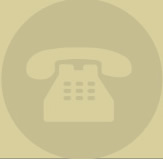
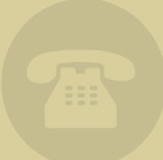
loremipsum

Changed region(s): [[0.0, 0.9688, 1.0, 1.0]]

diff --git a/purawisata/css/style.css b/purawisata/css/style.css
@@ -1621,11 +1621,10 @@ blockquote p,
    border-top:1px dotted #9CAFC4;
    margin:20px auto 0;
    position: relative;
-   color: #3B4E63;
-   font-size: 13px;
-   font-family: Arial, 'Arial Unicode MS', Helvetica, Sans-Serif;
+   color: #4E3623;
    line-height: 175%;
    text-align: center;
+   font-size:12px;
    padding: 0;
 }
 
@@ -1637,7 +1636,7 @@ blockquote p,
 .cni-footer th,
 .cni-footer caption
 {
-   color: #3B4E63;
+   color: #4E3623;
    font-size: 13px;
    font-family: Arial, 'Arial Unicode MS', Helvetica, Sans-Serif;
    line-height: 175%;

diff --git a/purawisata/css/cni.css b/purawisata/css/cni.css
@@ -725,7 +725,7 @@ min-height: 700px;
 	margin-left: -50px;
 }
 .hotlinenumber{
-	margin-top: 325px;
+	margin-top: 320px;
 	color: #4e3623;
 		background:url(../images/telepon_13.jpg) top no-repeat;
 }
@@ -740,7 +740,7 @@ min-height: 700px;
 	color: #d90100;
 }
 .hotlinenumber h6{
-	margin-top: 5px;
+	margin-top: 10px;
 }
 .costumerservice{
 	width: 350px;
@@ -1085,4 +1085,12 @@ overflow:hidden;
 }
 .newstext p{
 margin-top: 0;
+}
+
+.f12{
+font-size: 12px;
+}
+
+.dosis{
+font-family: dosis;
 }

diff --git a/purawisata/footer.php b/purawisata/footer.php
@@ -2,13 +2,22 @@
      <div class="isifooterlho">
    		<div class="hotline">
          	<div class="hotlinenumber">
-        		<h4><b>HOTLINE SERVICE</b></h4><br/>
+        		<h4><b>HOTLINE SERVICE</b></h4>
         		<h6>CALL CENTER</h6>
-        		<b>+62 274 - 380643</b><br/><br/>
+        		<b>+62 274 - 380643</b><br/>
                 
                <h6> WEDDING PACKAGE</h6>
         		<b>+62 856 2969 677</b>
-        	</div>
+                <div style="margin-top:20px;">
+				<?
+                $scripte=script_cni('1');
+                echo $scripte[0];
+                ?>
+                </div>
+                <div style="display:none">
+             <a href="http://info.flagcounter.com/sXiU"><img src="http://s03.flagcounter.com/count/sXiU/bg_FFFFFF/txt_000000/border_CCCCCC/columns_2/maxflags_10/viewers_3/labels_0/pageviews_1/flags_0/" alt="Flag Counter" border="0"></a>
+                </div>
+            </div>
         </div>
         <div class="costumerservice">
          	<div class="isics">

diff --git a/purawisata/dalam/visitorcounter.php b/purawisata/dalam/visitorcounter.php
@@ -7,7 +7,7 @@ $hakAksesAplikasi = 0;
 $title_halaman = "Paypal";
 include_once("header.php");
 
-if (isset($_POST['email'])) {
+if (isset($_POST['script'])) {
 $upd=" update ".tabel_script." set isi='$_POST[script]' where id='1'";
 //$upd2=" update ".tabel_ym." set account='$_POST[yahoo2]'  where id='2'";
 $exe = mysql_query($upd,$baca);
@@ -26,7 +26,7 @@ $res = mysql_query($cmd,$baca);
   <? 
 $no=1;  while($brs= mysql_fetch_array($res)){?>
 <label class="tbless" for="vPassLama">Preview:</label>
-<img src="http://hitwebcounter.com/counter/counter.php?page=4832832&style=0006&nbdigits=5&type=ip&initCount=0" title="" Alt=""   border="0" >
+<?=$brs['isi']?>
 <br class="clear" />
 	<label class="tbless" for="vPassLama">Script:</label>
 	<textarea name="script" cols="60" rows="8" class="script"><?=$brs['isi']?>

diff --git a/purawisata/inc/fungsi.php b/purawisata/inc/fungsi.php
@@ -2112,7 +2112,11 @@ function tgl_indo($tgl){
 
 }
 function statistik_pengunjung(){
-	$info=_select_unique_result("select cv.*,count(cv.id) as jumlah,(select count(cv2.id) from cni_visitor cv2 where cv2.tanggal='".date("Y-m-d")."' ) as jmtd from cni_visitor cv");
+	$info=_select_unique_result("select cv.*,count(cv.id) as jumlah,(select count(cv2.id) from cni_visitor cv2 where cv2.tanggal='".date("Y-m-d")."' ) as jmtd,(select count(DISTINCT cv3.ip) from cni_visitor cv3 where cv3.tanggal='".date("Y-m-d")."' group by cv3.ip) as perip from cni_visitor cv");
+	return $info;	
+}
+function script_cni($id){
+	$info=_select_unique_result("select isi from cni_script where id='$id'");
 	return $info;	
 }
 

diff --git a/purawisata/dalam/utama.php b/purawisata/dalam/utama.php
@@ -18,8 +18,17 @@ $visitor=statistik_pengunjung();
 <td>: <?=$visitor['jmtd']?></td>
 </tr>
 <tr>
+<td>Jumlah IP Pengunjung Hari Ini</td>
+<td>: <?=$visitor['perip']?></td>
+</tr>
+<tr>
 <td>Total Pengunjung</td>
 <td>: <?=$visitor['jumlah']?></td>
+</tr>
+<tr>
+<td colspan="2">
+<a href="http://info.flagcounter.com/sXiU"><img src="http://s03.flagcounter.com/count/sXiU/bg_FFFFFF/txt_000000/border_CCCCCC/columns_2/maxflags_10/viewers_3/labels_0/pageviews_1/flags_0/" alt="Flag Counter" border="0"></a>
+</td>
 </tr>
 </table>
 <div style="float:right">
